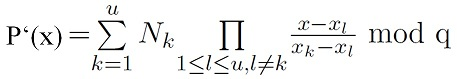
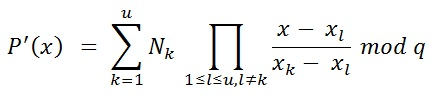
Fixed HELP!

diff --git a/org.jcryptool.visual.verifiablesecretsharing/nl/de/help/content/index.html b/org.jcryptool.visual.verifiablesecretsharing/nl/de/help/content/index.html
@@ -7,25 +7,27 @@
 
 <h1>Verifiable Secret Sharing</h1>
 
-<p>Der <b>Verifiable Secret Sharing</b> Algorithmus wurde 1987 von Paul Feldman entwickelt und 
-basiert auf dem von Adi Shamir 1979 entwickelten Secret Sharing Verfahren Shamir's Secret Sharing, mit dem es möglich
-ist, ein Geheimnis auf mehrere Personen aufzuteilen, wobei eine gewisse Untermenge dieser Personen erforderlich ist, 
-um das Geheimnis zu rekonstruieren.</p>
+<p>
+	Der <b>Verifiable Secret Sharing</b> Algorithmus wurde 1987 von Paul Feldman entwickelt und 
+	basiert auf dem von Adi Shamir 1979 entwickelten Secret Sharing Verfahren Shamir's Secret Sharing. Mit diesem Algorithmus ist es möglich, 
+	ein Geheimnis auf mehrere Personen aufzuteilen, wobei eine gewisse Untermenge dieser Personen erforderlich ist, 
+	um das Geheimnis zu rekonstruieren.
+</p>
 
-<p>Im Folgenden wird die Funktionsweise des <b>Verifiable Secret Sharing</b> Plug-ins anhand einiger Screenshots und Erklärungen gezeigt.</p>
-<p>Das <b >Verifiable Secret Sharing</b> Plug-in lässt sich über das Menü Visualisierungen oder über die View
+<p>Im Folgenden wird die Funktionsweise des <b>Verifiable Secret Sharing</b> Plugins anhand einiger Screenshots und Erklärungen gezeigt.</p>
+<p>Das <b >Verifiable Secret Sharing</b> Plugin lässt sich über das Menü Visualisierungen oder über die View
 <b >Algorithmen</b> im Tab <b >Visualisierungen</b> starten und in seiner Ansicht maximieren.</p>
 
 <p><img src="vss_plugin_1.jpg" width="60%" height="60%"></p>
 
-<p>Das Plug-in gliedert sich in vier Bereiche: <b>Header</b>, <b>Eingabemasken</b>, <b>Erklärungsboxen</b> sowie den Tab <b>Rekonstrunktionsgraph</b>.
-Im <b>Header</b> wird eine kurze Beschreibung des das Plug-ins angezeigt.
+<p>Das Plugin gliedert sich in vier Bereiche: <b>Header</b>, <b>Eingabemasken</b>, <b>Erklärungsboxen</b> sowie den Reiter <b>Rekonstrunktionsgraph</b>.
+Im <b>Header</b> wird eine kurze Beschreibung des Plugins angezeigt.
 
 <p>Die <b>Eingabemasken</b> dienen zur Eingabe der Parameter durch den Benutzer und zur Anzeige der Ergebnisse der verschiedenen Berechnungen.</p>	
 
-Am unteren Bildschirmrand gibt es noch einen Bereich <b>Erklärungen</b> wo zusätzliche Informationen zum aktuellen Arbeitsschritt angezeigt werden.</p>
+<p>Am unteren Bildschirmrand gibt es noch einen Bereich <b>Erklärungen</b>, wo zusätzliche Informationen zum aktuellen Arbeitsschritt angezeigt werden.</p>
 
-<p>Im Tab <b>Rekonstruktionsgraph</b> werden nach erfolgter Rekonstruktion der Graph und das rekonstruierte Polynom angezeigt.</p>
+<p>Im Reiter <b>Rekonstruktionsgraph</b> werden nach erfolgter Rekonstruktion der Graph und das rekonstruierte Polynom angezeigt.</p>
 
 <h3>Festlegung der Parameter für die Berechnung</h3>
 <p>Im Bereich <b>Parameter</b> werden die nötigen Parameter für den Ablauf des Algorithmus eingestellt.
@@ -39,9 +41,9 @@ beide müssen <b>mindestens 2</b> sein, da sonst die Idee des Secret Sharing ad 
 <p>Nachdem als nächstes das <b>Geheimnis s</b> gewählt wurde, wird automatisch der <b>Modul p</b> berechnet,
 da dieser eine Safe Prime sein muss. Da das Finden von Safe Primes relativ aufwendig ist, wird empfohlen die 
 vorgeschlagenen Werte zu verwenden. Es kann jedoch auch selbst ein Modul gewählt werden. Auch in diesem Fall 
-muss der Modul wieder eine Safe Prime sein und mindest doppelt so groß wie das <b>Geheimnis s</b>. Weiters wird ein <b>Primfaktor q</b> benötigt. 
-Der Primfaktor berechnet sich automatisch aus der Safe Prime p wie folgt: q = (p-1)/2. <b>g</b> ist ein Element des Körpers Z_p mit der multiplikativen Ordnung q <b>q</b>. 
-Der letzte Parameter ist der <b>Generator g</b>, wird automatisch berechnet und kann nicht verändert werden. 
+muss der Modul wieder eine Safe Prime sein und mindest doppelt so groß wie das <b>Geheimnis s</b>. Des Weiteren wird der größte <b>Primfaktor q</b> von (p-1) benötigt. 
+Der Primfaktor berechnet sich automatisch aus der Safe Prime p wie folgt: q = (p-1)/2. <b>g</b> ist ein Element des Körpers Z_p mit der multiplikativen Ordnung <b>q</b>. 
+Der letzte Parameter ist der <b>Generator g</b>, welcher automatisch berechnet wird. Aufgrund eines erhöhten Rechenaufwandes bei der Bestimmung der Ordnung des Generators - wenn der Generator g groß gewählt wird - kann dieser nicht verändert werden.
 </p>
 
 <p><img src="vss_parameter_2.jpg"></p>
@@ -51,17 +53,17 @@ fortzufahren.</p>
 
 <h3>Festlegung der Koeffizienten für das Polynom und Berechnung der Commitments</h3>
 
-<p>In der Box <b>Koeffizienten</b> werden die Koeffizienten für das Polynom festgelegt. Diese können entweder vom Plug-in, 
+<p>Im Bereich <b>Koeffizienten</b> werden die Koeffizienten für das Polynom festgelegt. Diese können entweder vom Plugin, 
 mittels Klick auf den Button <b>Generieren</b>, generiert werden lassen oder wieder selbst gewählt werden.
 
-Die Koeffizienten müssen natürliche Zahlen sein und kleiner als der <b>Modul q</b>. Der Koeffizient <b>a_0</b> ist das zuvor festgelegte <b>Geheimnis s</b>.</p>
+Die Koeffizienten müssen natürliche Zahlen sein und kleiner als der <b>Modul q</b>. Der Koeffizient <b>a_0</b> ist das zuvor festgelegte <b>Geheimnis s</b>. Bei den Koeffizienten größer 0, aufgrund der Sicherheit des Algorithmus zugelassen.</p>
 
 <p><img src="vss_coefficients_3.jpg"></p>
 
 <p>Weiters gibt es in diesem Schritt den Button <b>Commit</b>. Die Berechnung der <b>Commitments</b> ist notwendig,
  wenn man im weiteren Verlauf die verteilten <b>Shares</b> überprüfen möchte.
  
- Nach der Berechnung werden die Commitments in einer eigenen Box angezeigt.</p>
+ Nach der Berechnung werden die Commitments in einem eigenen Bereich angezeigt.</p>
 
 <p><img src="vss_commitments_4.jpg"></p>
 
@@ -73,22 +75,15 @@ Falls man auf die Überprüfung verzichten möchte, kann man diesen Schritt übe
 
 <h3>Überprüfung der Shares und Rekonstruktion</h3>
 
-<p>Der letzte Schritt verteilt sich auf die beiden Boxen <b>Shares</b> und <b>Rekonstruktion</b>.
+<p>Der letzte Schritt verteilt sich auf die beiden Bereiche <b>Shares</b> und <b>Rekonstruktion</b>.
 
-In der <b>Shares</b>-Box werden die Shares und die Shares modulo p angezeigt. Alle nachfolgenden Berechnungen mit den Shares modulo p. 
-Für den Algorithmus an sich wären die nicht reduzierten Shares nicht mehr nötig und müssten nicht gespeichert werden. 
-In diesem Fall werden sie jedoch benötigt, damit der Benutzer nach der Rekonstruktion die Richtigkeit des Graphen überprüfen kann.</p>
+Im <b>Shares</b>-Bereich werden die Zwischenergebnisse vor der Reduktion modulo q und die Shares modulo q angezeigt. Alle nachfolgenden Berechnungen werden mit den Shares modulo q durchgeführt. Das Zwischenergebnis vor der Reduktion modulo q wird nicht mehr benötigt. Es wird trotzdem angezeigt, damit der Benutzer nach der Rekonstruktion den Graphen des Polynoms auf seine Richtigkeit kontrollieren kann.</p>
 
 <p>
 Über die <b>Check</b>-Buttons können die Shares überprüft werden. Hierzu ist es notwendig, dass zuvor die Commitments berechnet worden sind, 
-Liefert die Überprüfung kein positives Ergebnis, wird das Feld rot eingefärbt.</p>
-da diese für die Berechnungen beim <b>Check</b> notwendig sind. Nach einer erfolgreichen Überprüfung eines Shares wird das jeweilige Feld <b>grün</b> eingefärbt. 
-
-<p>Um nachvollziehen zu können, dass ein veränderter 
-Share bei der Rekonstruktion das Ergebnis verfälscht, ist es möglich die Shares zu verändern. 
-Die Veränderung eines Shares zieht zwei Änderungen nach sich. 
-Zum einen bringt nun die Überprüfung ein negatives Ergebnis und zum anderen wird nun bei der Rekonstruktion 
-ein verfälschtes Geheimnis berechnet, falls der geänderte Share verwendet wird.</p>
+Liefert die Überprüfung kein positives Ergebnis, wird das Feld rot eingefärbt.
+Da diese für die Berechnungen beim <b>Check</b> notwendig sind. Nach einer erfolgreichen Überprüfung eines Shares wird das jeweilige Feld <b>grün</b> eingefärbt. Versuchsweise können die Shares verändert werden, um ein
+inkorrektes Checkergebnis zu erzeugen.</p>
 
 
 <p><img src="vss_shares_5.jpg"></p>
@@ -99,7 +94,15 @@ mindestens <b>t</b> sein. Werden zu wenig Shares ausgewählt, wird ein falsches 
 Geheimnis rekonstruiert. Das Ergebnis der Rekonstruktion wird im Tab <b>Rekonstruktionsgraph</b> angezeigt. 
 Dies umfasst das rekonstruierte Polynom sowie eine graphische Darstellung davon.  </p>
 
+<p>
+Nach Auswahl der gewünschten Spieler zur Rekonstruktion und dem Betätigen der
+Rekonstruktions-Funktion wechselt der Fokus auf den zweiten Tab. Dort wird das rekonstruierte
+Polynom als Text und in einem Graphen dargestellt. Des Weiteren werden
+im Graphen die ausgewählten Shares angezeigt. Bei erfolgreicher Rekonstruktion führt
+der Graph durch diese Shares.</p>
+
 <p><img src="vss_reconstruct_6.jpg"></p>
+
 
 
 

diff --git a/org.jcryptool.visual.verifiablesecretsharing/nl/de/help/content/vssAlgorithm.html b/org.jcryptool.visual.verifiablesecretsharing/nl/de/help/content/vssAlgorithm.html
@@ -8,20 +8,13 @@
 <h1>Der Verifiable Secret Sharing Algorithmus nach dem Feldman-Schema</h1>
 
 <p>
-	Der <b>Verifiable Secret Sharing</b> Algorithmus wurde 1987 von Paul Feldman entwickelt und 
-	basiert auf dem von Adi Shamir 1979 entwickelten Secret Sharing Verfahren Shamir's Secret Sharing. Mit diesem Algorithmus ist es möglich, 
-	ein Geheimnis auf mehrere Personen aufzuteilen, wobei eine gewisse Untermenge dieser Personen erforderlich ist, 
-	um das Geheimnis zu rekonstruieren.
-</p>
-
-<p>
 	Seien <i>n</i> und <i>t</i> natürliche Zahlen. In einem <i>(n,t)</i>-Secret Sharing Protokoll wird das
 	Geheimnis auf <i>n</i> Personen aufgeteilt. Jede Person hat einen Share des Geheimnisses.
 	Wenn sich <i>t</i> dieser Personen zusammentun, können sie das Geheimnis rekonstruieren.
 	Wenn sich aber weniger als <i>t</i> dieser Teilgeheimnisträger zusammentun, können sie
 	keine relevanten Informationen über das Geheimnis erhalten. Dieses Prinzip kann man
 	mit einer Schatzkarte vergleichen, die auf mehrere Personen verteilt wird. Nur wenn
-	alle Teile der Schatzkarte zusammengelegt werden, dann man den Schatz
+	alle Teile der Schatzkarte zusammengelegt werden, kann man den Schatz
 	finden. Bedenkt man jetzt jedoch, dass jeder Teilgeheimnisträger seinen Teil der
 	Schatzkarte verändern und dadurch die Bedeutung der gesamten Karte ändern könnte,
 	ist es notwendig, das zu verhindern. Der Verifiable Secret Sharing-Algorithmus erweitert
@@ -34,101 +27,91 @@
 	<i>&#x2124;/p*</i> durchgeführt.
 </p>
 
-<h2>Domain-Parameter (Variablen)</h2>
+<h2>Ablauf des Algorithmus</h2>
+
+<h3>Schritt 1: Festlegen der Domain-Parameter und Variablen</h3>
 
 <p>
 	<ol>
-	<li>n: Anzahl der Player</br>
+	<li><i>n</i>: Anzahl der Player</br>
 	<i>n</i> muss eine natürliche Zahl sein, <i>2 &#x2264; n</i></li>
 	<li>t: Anzahl der Player zur Rekonstruktion</br>
-	<i>2 &#x2264; t &#x2264; n</i></li>
-	<li>s: Geheimnis</br>
+	<i>2 &#x2264; t &#x2264; <i>n</i></i></li>
+	<li><i>s</i>: Geheimnis</br>
 	<i>s</i> muss eine natürliche Zahl sein.</li>
-	<li>p: Modul für die Überprüfung der Shares, ist eine Safe Prime</br>
-	<i>p > 2s</i></li>
-	<li>q: Größter Primfaktor von (p-1)</li>
-	<li>g: Ist ein Element des Körpers <i>&#x2124;/p</i> mit der multiplikativen Ordnung <i>q</i></li>
+	<li><i>p</i>: Dies ist eine Safe Prime mit der Bedingung <i>p > 2s</i></li>
+	<li><i>q</i>: Größter Primfaktor von (p-1)</li>
+	<li><i>g</i>: Ist der Generator und ein Element des Körpers <i>&#x2124;/p</i> mit der multiplikativen Ordnung <i>q</i></li>
 	</ol>
-	<p>Der Dealer legt alle Parameter fest. Bis auf <i>n</i> und <i>t</i> sind alle Parameter geheim und nur dem Dealer bekannt.</p>
-	
+	<p>Der Dealer legt alle Parameter fest. Bis auf <i>s</i> und den im Schritt 2 eingeführten Koeffizienten, sind alle Parameter öffentlich und allen Spielern bekannt. Die Koeffizienten und das Geheimnis sind nur dem Dealer bekannt.</p>
 </p>
 
-<h2>Ablauf des Algorithmus</h2>
-<h3>Polynomerstellung und Verteilung der Shares und Commitments</h3>
-
+<h3>Schritt 2: Polynomerstellung</h3>
 <p>
 Der Dealer will ein Geheimnis <i>s &#x2208; &#x2115;</i> verteilen.
 </p>
-
 <p>
-   <ol>
-    <li>
-		Er wählt geheime Elemente <i>a<sub>j</sub> &#x2208; &#x2115;, 1 &#x2264; j &#x2264; (t-1), 1 &#x2264 a &#x2264; q</i> und konstruiert daraus das Polynom:
-		
-			<p><img src="vss_polynom.jpg"></p>
-			 
-			<p>Das Polynom ist vom Grad <i>t-1.</i> Der Koeffizient <i>a<sub>0</sub></i> ist das Geheimnis <i>s</i></p>
-			 
-	</li>
-    <li>
-	<p>
-		Der Dealer berechnet die Shares <i>N<sub>i</sub> = P(i) mod q, 1 &#x2264; i &#x2264; n</i></br>
-		i = ID des Shareholders</br>
-		Gleichzeitig mit den Shares werden auch die Commitments <i>Y<sub>e</sub> , 0 &#x2264; e &#x2264; (t-1)</i> für alle Koeffizienten <i>a<sub>e</sub></i> berechnet und an alle Shareholder verteilt.
-	</p>
+Er wählt geheime Elemente <i>a<sub>i</sub> &#x2208; &#x2115;[1 &#x2264; i &#x2264; (t-1); 1 &#x2264 a &#x3C; q]</i> zufällig und konstruiert daraus das Polynom:</p>
 
+<p><img src="vss_polynom.jpg"></p>
+		 
+<p>Das Polynom ist vom Grad <i>t-1.</i> Der Koeffizient <i>a<sub>0</sub></i> ist das Geheimnis <i>s</i></p>
+
+<h3>Schritt 3: Verteilung der Commitments und Shares</h3>
+	<p>
+		Der Dealer berechnet die Shares für jeden Spieler, <i>N<sub>i</sub> = P(i) mod q und verteilt diese. Bei i[1&#x2264;i&#x2264;n] handelt sich um die ID des jeweiligen Spielers.</br>
+		Unabhängig davon werden vom Dealer die Commitments <i>Y<sub>e</sub>[0 &#x2264; e &#x2264; (t-1)]</i> berechnet und an alle Spieler verteilt.
+		</br>
+		Die Berechnung der Commitments sieht folgendermaßen aus.
+	</p>
 	<p>
 		<img src="vss_compute_commitments.jpg">
 	</p>
-
 	<p>
-		Die Commitments werden später zur Überprüfung der Shares benötigt.
+		Bei <i>a<sub>e</sub></i> handelt es sich um die Koeffizienten.
+		Die Commitments werden später zur Überprüfung und Integritätssicherung der Shares benötigt.
 	</p>
-	
 	<p>
-     </li>
-     <li>
-		Der Dealer gibt dem <i>i</i>-ten Shareholder den Share <i>N<sub>i</sub> , 1 &#x2264; i &#x2264; n</i>.
-	 </li>
-	</ol>
+		Nun bekommt jeder Spieler seinen Share und alle Commitments übermittelt.
 	</p>
 </p>
 
-<h3>Überprüfung der Shares</h3>
+<h3>Schritt 4: Überprüfung der Shares</h3>
 
 <p>
-	Vor der Rekonstruktion erfolgt noch die Überprüfung der Shares durch die Player. 
-	Jeder Player kann seinen eigen Share überprüfen, sowie die Shares der anderen Player 
-	die zur Rekonstruktion verwendet werden.
-</p>
+	Jeder Spieler sollte nach Erhalt des Shares diesen prüfen. Dies geschieht mittels Check, welcher aus folgenden 2 Berechnungen besteht.</p>
 
-<p>Der Check besteht aus 2 Schritten.</p>
-
-<p>Schritt 1:</p>
+<p>Berechnung 1:</p>
 
 <p><img src="vss_check_1.jpg"></p>
 
-<p>Schritt 2:</p>
+<p>Berechnung 2:</p>
 
 <p><img src="vss_check_2.jpg"></p>
 
 <p>
-	Stimmen die Ergebnisse dieser Berechnungen überein, ist der Share als korrekt verifiziert. 
-	Diese Berechnung muss für jeden zu überprüfenden Share seperat durchgeführt werden.
+	In Berechnung 1 wird der Generator <i>g</i> mit dem persönlichen Share des jeweiligen Spielers potenziert.</br>
+	In Berechnung 2 wird das Commitment potenziert mit der Spieler-ID <i>i</i> hoch dem Index <i>j</i> der Produktformel. Dieser Vorgang wird für jedes Commitment wiederholt und die Ergebnisse miteinander multipliziert.</br>
+	Stimmen die Ergebnisse der beiden Berechnungen überein, ist der Share als korrekt verifiziert. 
+	Diese Berechnung muss für jeden zu überprüfenden Share seperat durchgeführt werden.</br>
+	Wenn sich die Spieler zur Rekonstruktion des Polynoms zusammenfinden, sollte der Check-Vorgang wiederholt werden, um sicherzustellen, dass kein Spieler seinen Share verändert hat.
 </p>
 
-<h3>Rekonstruktion</h3>
+<h3>Schritt 5: Rekonstruktion</h3>
 
 <p>
-	Um das Geheimnis rekonstruieren zu können, nehmen wir an, dass <i>t</i> Shareholder zusammen arbeiten.
-</p>
-
-<p><img src="vss_lagrange.jpg"></p>
-
-<p>
-	Diese Formel wird von den Shareholdern benutzt, um das Geheimnis zu rekonstruieren. 
-	Das Geheimnis ist der Koeffizient <i>a<sub>0</sub></i> des rekonstruierten Polynoms.
-</p>
+	Die Rekonstruktion dient zur Wiederherstellung des vom Dealer generierten Polynoms. Aus dem Polynom können die Spieler das Geheimnis <i>s</i> rekonstruieren.</br>
+	Um eine erfolgreiche Rekonstruktion durchführen zu können, muss mindestens die in Schritt 1 definierte Anzahl an Spielern zur Rekonstruktion <i>t</i> anwesend sein. Diese Spieler müssen ihren persönlichen Share zur Verfügung stellen, damit durch nachfolgende Berechnung das ursprüngliche Polynom wiederhergestellt werden kann.</p>
+	
+	<p><img src="vss_lagrange.jpg"></p>
+	
+	<p>
+	Hierbei handelt es sich um den Polynominterpolation-Algorithmus nach Lagrange.</br>
+	Bei u handelt es sich um die Anzahl der zur Rekonstruktion ausgewählten und bei k und l um die IDs der jeweiligen Spieler.</br>
+	Als Ergebnis wird ein Polynom P'(x) geliefert. Da es sich beim Polynom P'(x) um das in Schritt 2 definierte Polynom P(x) handelt, wenn genügend Spieler ausgewählt wurden, ist der Koeffizient <i>a<sub>0</sub></i> das Geheimnis <i>s</i>.</p>
+	<p>
+	Die Veränderung eines zur Rekonstruktion verwendeten Shares hätte als Ergebnis ein falsches Polynom zur Folge, wodurch auch das Geheimnis <i>s</i> verfälscht werden würde.
+	</p>
 
 </body>
 

diff --git a/org.jcryptool.visual.verifiablesecretsharing/nl/en/help/content/index.html b/org.jcryptool.visual.verifiablesecretsharing/nl/en/help/content/index.html
@@ -6,7 +6,10 @@
 <body>
 <h1>Verifiable Secret Sharing</h1>
 
-<p>This demonstration hast the intention to show how the <b>Verifiable Secret Sharing</b> plug-in works.</p>
+<p>The <span class="cmbx-10">Verifiable Secret Sharing</span> algorithm has been developed by Paul Feldman in 1987 
+and is based on the Shamir's Secret Sharing algorithm from Adi Shamir from 1979. With this algorithm it is possible 
+to divide a secret into parts and distribute it to multiple persons. For retrieving the secret, just a few of this persons is necessary.
+</p>
 <p>The <b >Verifiable Secret Sharing</b> plug-in can be started at the menu bar at the point <b>Visualization</b> or at the view
 <b >Algorithms</b> in the tab <b >Visualization</b>.</p>
 

diff --git a/org.jcryptool.visual.verifiablesecretsharing/nl/en/help/content/vssAlgorithm.html b/org.jcryptool.visual.verifiablesecretsharing/nl/en/help/content/vssAlgorithm.html
@@ -8,10 +8,7 @@
    <h3 class="sectionHead"><span class="titlemark">1   </span> <a
  id="x1-10001"></a>The Verifiable Secret Sharing Algorithm according to the Feldman scheme</h3>
 
-<p>The <span class="cmbx-10">Verifiable Secret Sharing</span> algorithm has been developed by Paul Feldman in 1987 
-and is based on the Shamir's Secret Sharing algorithm from Adi Shamir from 1979. With this algorithm it is possible 
-to divide a secret into parts and distribute it to multiple persons. For retrieving the secret, just a few of this persons is necessary.
-</p>
+
  <p>
 <!--l. 29--><p class="noindent" >There are the natural numbers <span
 class="cmmi-10">n </span>and <span
